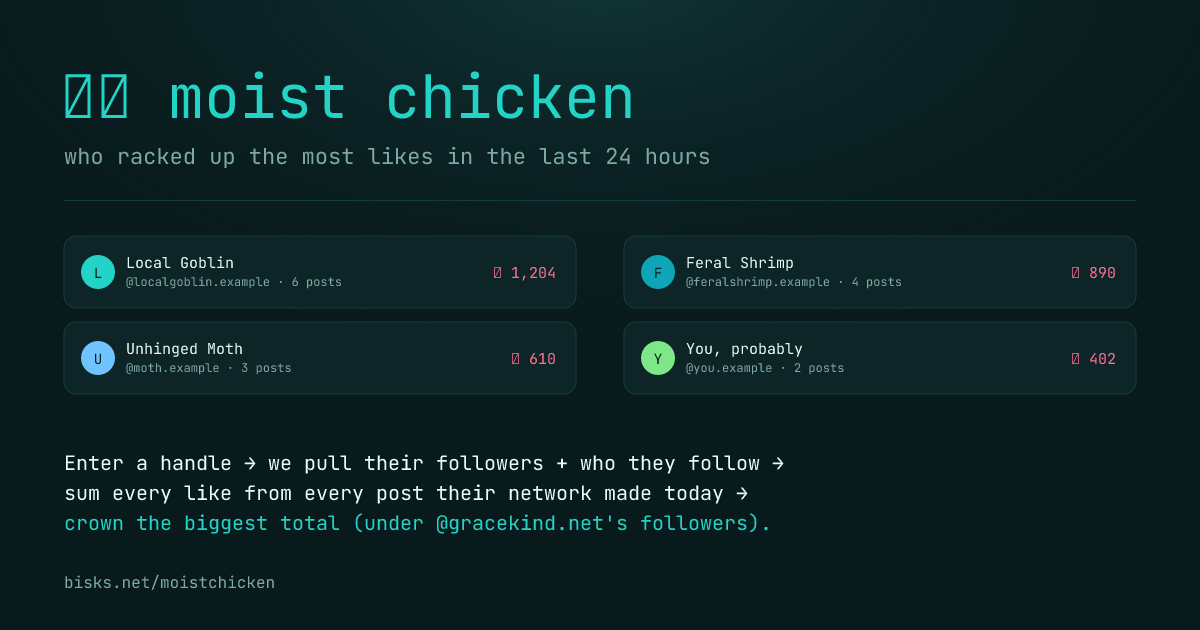
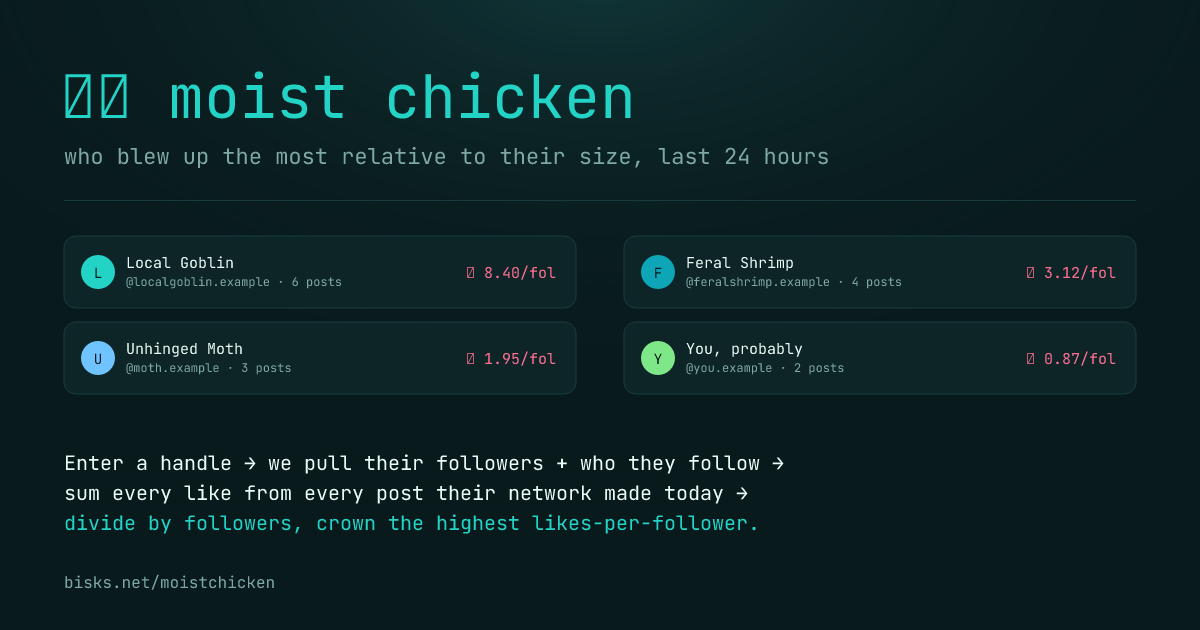
buildthis: moistchicken (@ver.ooo)

diff --git a/sites/moistchicken/public/index.html b/sites/moistchicken/public/index.html
@@ -7,16 +7,16 @@
          /moistchicken/lib/scan.js, 404ing outside this Worker's route. -->
     <base href="/moistchicken/" />
     <meta name="viewport" content="width=device-width, initial-scale=1" />
-    <title>moist chicken — who racked up the most likes today</title>
-    <meta name="description" content="Enter a Bluesky handle: moist chicken pulls their followers + who they follow, sums every like on every post that network made in the last 24 hours, and crowns whoever's total is highest 'moist chicken' — unless they have more followers than @gracekind.net." />
-    <meta property="og:title" content="moist chicken — who racked up the most likes today" />
-    <meta property="og:description" content="Enter a handle. moist chicken totals up likes across a whole network's last 24 hours and crowns the biggest total — capped below @gracekind.net's follower count." />
+    <title>moist chicken — who blew up relative to their size today</title>
+    <meta name="description" content="Enter a Bluesky handle: moist chicken pulls their followers + who they follow, sums every like on every post that network made in the last 24 hours, divides by each account's follower count, and crowns whoever's likes-per-follower is highest 'moist chicken' — so a small account that blows up beats a big one coasting on reach." />
+    <meta property="og:title" content="moist chicken — who blew up relative to their size today" />
+    <meta property="og:description" content="Enter a handle. moist chicken totals up likes across a whole network's last 24 hours, normalizes by follower count, and crowns the highest likes-per-follower — rewarding low-follower accounts that blow up." />
     <meta property="og:image" content="https://bisks.net/moistchicken/og.png" />
     <meta property="og:url" content="https://bisks.net/moistchicken" />
     <meta property="og:type" content="website" />
     <meta name="twitter:card" content="summary_large_image" />
-    <meta name="twitter:title" content="moist chicken — who racked up the most likes today" />
-    <meta name="twitter:description" content="Enter a handle. moist chicken totals up likes across a whole network's last 24 hours and crowns the biggest total — capped below @gracekind.net's follower count." />
+    <meta name="twitter:title" content="moist chicken — who blew up relative to their size today" />
+    <meta name="twitter:description" content="Enter a handle. moist chicken totals up likes across a whole network's last 24 hours, normalizes by follower count, and crowns the highest likes-per-follower — rewarding low-follower accounts that blow up." />
     <meta name="twitter:image" content="https://bisks.net/moistchicken/og.png" />
     <style>
       :root {
@@ -40,8 +40,6 @@
         display:flex; align-items:baseline; gap:0.5rem; }
       .sub { color:var(--muted); font-size:0.92rem; margin:0 0 1.6rem; max-width:56ch; }
       .sub b { color:var(--ink); }
-      .cap { color:var(--muted); font-size:0.82rem; margin:0 0 1.6rem; max-width:56ch; }
-      .cap a { color:var(--accent2); }
 
       form { display:flex; gap:0.55rem; margin-bottom:0.85rem; }
       input { flex:1; font:inherit; padding:0.65rem 0.75rem; border:1px solid var(--faint);
@@ -117,17 +115,6 @@
       .prow .nm { flex:1; min-width:0; overflow:hidden; text-overflow:ellipsis; white-space:nowrap; }
       .prow .lk { color:var(--like); font-weight:700; font-variant-numeric:tabular-nums; }
 
-      .dq { margin:1.6rem 0 0; }
-      .dq h3 { font-size:0.78rem; text-transform:uppercase; letter-spacing:0.05em;
-        color:var(--muted); margin:0 0 0.7rem; font-weight:700; }
-      .dqrow { display:flex; align-items:center; gap:0.6rem; padding:0.5rem 0;
-        border-bottom:1px solid var(--faint); font-size:0.86rem; opacity:0.65; }
-      .dqrow:last-child { border-bottom:none; }
-      .dqrow img { width:26px; height:26px; border-radius:50%; background:var(--faint); flex:none; object-fit:cover;
-        filter:grayscale(1); }
-      .dqrow .nm { flex:1; min-width:0; overflow:hidden; text-overflow:ellipsis; white-space:nowrap; text-decoration:line-through; }
-      .dqrow .why { color:var(--muted); font-family:var(--mono); font-size:0.76rem; flex:none; }
-
       .share { display:none; margin:1.4rem 0 1rem; flex-wrap:wrap; gap:0.55rem; }
       .share.show { display:flex; }
       .share button, .share a.btn { font-family:var(--mono); font-size:0.8rem; color:var(--muted);
@@ -149,12 +136,10 @@
       <p class="sub">
         Enter a handle. We pull everyone they <b>follow</b> and everyone who
         <b>follows them</b>, add up every like on every post that whole
-        network made in the <b>last 24 hours</b>, and crown whoever's
-        <b>total</b> is highest the moist chicken.
+        network made in the <b>last 24 hours</b>, then divide by each
+        account's <b>follower count</b> — whoever's <b>likes per follower</b>
+        is highest is the moist chicken. Blowing up small beats coasting big.
       </p>
-      <p class="cap">The catch: the moist chicken may not have more followers
-        than <a href="https://bsky.app/profile/gracekind.net" target="_blank" rel="noopener">@gracekind.net</a>.
-        Whoever's over that line gets bumped and the next-highest total takes it.</p>
 
       <form id="form">
         <input id="handle" placeholder="handle, e.g. mrcheeze.github.io" autocomplete="off"
@@ -193,11 +178,6 @@
           <div id="peckingList"></div>
         </div>
 
-        <div class="dq" id="dq" style="display:none">
-          <h3>too big for the coop</h3>
-          <div id="dqList"></div>
-        </div>
-
         <div class="share" id="share">
           <a class="btn compose" id="shareBluesky" target="_blank" rel="noopener">🦋 share to Bluesky</a>
           <button id="shareDownload">⬇ download card</button>
@@ -216,9 +196,8 @@
         keep a single page load from fanning out forever; each member is scanned up
         to ~500 recent items looking for anything posted in the last 24 hours.
         Reposts don't count, only what an account actually wrote. Follower counts
-        for the cap check are fetched live, starting from the top of the leaderboard,
-        stopping once enough qualifying accounts are found. Nothing is posted or
-        changed — it just reads.
+        used for the per-follower score are fetched live for everyone who posted
+        in-window. Nothing is posted or changed — it just reads.
       </p>
       <p class="credit">forked from <a href="https://bisks.net/topchicken">top chicken</a>, asked for by <a href="https://bsky.app/profile/ver.ooo">@ver.ooo</a> · built by <a href="https://bsky.app/profile/buildthis.bisks.net">@buildthis.bisks.net</a></p>
     </div>
@@ -226,7 +205,7 @@
     <script src="lib/handle-typeahead.js"></script>
     <script type="module">
       import { resolveNetwork } from "./lib/network.js";
-      import { scanNetwork, findMoistChicken, moistCap, last24h } from "./lib/scan.js";
+      import { scanNetwork, rankByLikesPerFollower, last24h } from "./lib/scan.js";
 
       if (window.attachHandleTypeahead) window.attachHandleTypeahead(document.getElementById('handle'));
 
@@ -243,8 +222,6 @@
       const winnerRow = document.getElementById("winnerRow");
       const pecking = document.getElementById("pecking");
       const peckingList = document.getElementById("peckingList");
-      const dq = document.getElementById("dq");
-      const dqList = document.getElementById("dqList");
       const share = document.getElementById("share");
       const shareCanvas = document.getElementById("shareCanvas");
 
@@ -276,6 +253,10 @@
         return "last 24 hours";
       }
 
+      function fmtRatio(n) {
+        return (n || 0).toLocaleString(undefined, { maximumFractionDigits: 2, minimumFractionDigits: 2 });
+      }
+
       function winnerHTML(entry) {
         const a = entry.author || {};
         const top = entry.posts[0];
@@ -289,8 +270,8 @@
                 <span class="dn">${esc(a.displayName || a.handle || "")}</span>
                 <span class="hd">@${esc(a.handle || "")}</span>
               </div>
-              <div class="total">♥ ${entry.totalLikes.toLocaleString()} total likes</div>
-              <div class="breakdown">across ${entry.postCount.toLocaleString()} post${entry.postCount === 1 ? "" : "s"}</div>
+              <div class="total">♥ ${fmtRatio(entry.likesPerFollower)} likes per follower</div>
+              <div class="breakdown">${entry.totalLikes.toLocaleString()} total likes across ${entry.postCount.toLocaleString()} post${entry.postCount === 1 ? "" : "s"}</div>
               ${top ? `
               <div class="toppost">
                 <div class="text">${esc(rec.text || "") || "<em style='color:var(--muted)'>(no text)</em>"}</div>
@@ -300,7 +281,7 @@
                   <a class="permalink" href="${bskyLink(top)}" target="_blank" rel="noopener">open ↗</a>
                 </div>
               </div>` : ""}
-              <div class="followers">${(entry.followersCount || 0).toLocaleString()} followers — under the @gracekind.net cap</div>
+              <div class="followers">${(entry.followersCount || 0).toLocaleString()} followers</div>
             </div>
           </div>`;
       }
@@ -312,17 +293,7 @@
             <span class="rk">#${i + 2}</span>
             <img src="${esc(a.avatar || "")}" alt="" referrerpolicy="no-referrer" />
             <span class="nm">${esc(a.displayName || a.handle || "")} <span style="color:var(--muted)">@${esc(a.handle || "")}</span></span>
-            <span class="lk">♥ ${entry.totalLikes.toLocaleString()}</span>
-          </div>`;
-      }
-
-      function dqRowHTML(entry) {
-        const a = entry.author || {};
-        return `
-          <div class="dqrow">
-            <img src="${esc(a.avatar || "")}" alt="" referrerpolicy="no-referrer" />
-            <span class="nm">${esc(a.displayName || a.handle || "")} @${esc(a.handle || "")} — ♥ ${entry.totalLikes.toLocaleString()}</span>
-            <span class="why">${(entry.followersCount || 0).toLocaleString()} followers</span>
+            <span class="lk">♥ ${fmtRatio(entry.likesPerFollower)}/fol</span>
           </div>`;
       }
 
@@ -425,10 +396,10 @@
 
         ctx.fillStyle = "#ff6f91";
         ctx.font = `800 36px ${mono}`;
-        ctx.fillText(`♥ ${entry.totalLikes.toLocaleString()} total likes`, cardX + 40, cardY + 150);
+        ctx.fillText(`♥ ${fmtRatio(entry.likesPerFollower)} likes/follower`, cardX + 40, cardY + 150);
         ctx.fillStyle = "#7ea8a3";
         ctx.font = `400 20px ${mono}`;
-        ctx.fillText(`across ${entry.postCount.toLocaleString()} post${entry.postCount === 1 ? "" : "s"}`, cardX + 40, cardY + 182);
+        ctx.fillText(`${entry.totalLikes.toLocaleString()} likes across ${entry.postCount.toLocaleString()} post${entry.postCount === 1 ? "" : "s"}`, cardX + 40, cardY + 182);
 
         ctx.fillStyle = "#eafcf6";
         ctx.font = `400 20px ${mono}`;
@@ -443,7 +414,7 @@
       function buildShareText(net, entry) {
         const a = entry.author || {};
         const url = "https://bisks.net/moistchicken?handle=" + encodeURIComponent(net.self.handle);
-        const head = `🐔💧 moist chicken in @${net.self.handle}'s network for the last 24h: @${a.handle} — ${entry.totalLikes.toLocaleString()} total likes across ${entry.postCount} post${entry.postCount === 1 ? "" : "s"}\n`;
+        const head = `🐔💧 moist chicken in @${net.self.handle}'s network for the last 24h: @${a.handle} — ${fmtRatio(entry.likesPerFollower)} likes/follower (${entry.totalLikes.toLocaleString()} likes across ${entry.postCount} post${entry.postCount === 1 ? "" : "s"})\n`;
         const tail = `\n${url}`;
         return head + tail;
       }
@@ -462,8 +433,6 @@
         share.classList.remove("show");
         pecking.style.display = "none";
         peckingList.innerHTML = "";
-        dq.style.display = "none";
-        dqList.innerHTML = "";
         winnerRow.innerHTML = "";
 
         try {
@@ -476,7 +445,6 @@
           if (!net.pool.length) throw new Error("no one in that network to scan");
 
           const { start, end } = last24h();
-          const capPromise = moistCap();
           progwrap.classList.add("show");
           statusEl.textContent = `scanning ${net.pool.length.toLocaleString()} accounts for the last 24 hours…`;
 
@@ -497,22 +465,12 @@
             return;
           }
 
-          const cap = await capPromise;
-          let checked = 0;
-          statusEl.textContent = `checking follower counts against @${cap.handle} (${cap.followersCount.toLocaleString()} followers)…`;
-          const { winner, runnersUp, disqualified } = await findMoistChicken(ranked, cap, {
-            onCheck: () => {
-              checked++;
-              statusEl.textContent = `checking follower counts against @${cap.handle}… (${checked} checked)`;
+          statusEl.textContent = `weighing likes against follower counts… (0 / ${ranked.length})`;
+          const { winner, runnersUp } = await rankByLikesPerFollower(ranked, {
+            onCheck: (_entry, done, total) => {
+              statusEl.textContent = `weighing likes against follower counts… (${done} / ${total})`;
             },
           });
-
-          if (!winner) {
-            statusEl.textContent = `everyone in the running has more followers than @${cap.handle} — no moist chicken today.`;
-            busy = false;
-            go.disabled = false;
-            return;
-          }
 
           statusEl.textContent = "";
           daylabel.textContent = `in @${net.self.handle}'s network — ${windowLabel()}`;
@@ -520,10 +478,6 @@
           if (runnersUp.length) {
             peckingList.innerHTML = runnersUp.map(peckingRowHTML).join("");
             pecking.style.display = "block";
-          }
-          if (disqualified.length) {
-            dqList.innerHTML = disqualified.map(dqRowHTML).join("");
-            dq.style.display = "block";
           }
           winnerWrap.classList.add("show");
           share.classList.add("show");

diff --git a/sites/moistchicken/public/lib/scan.js b/sites/moistchicken/public/lib/scan.js
@@ -1,18 +1,19 @@
 // scan.js — given a pool of profiles, find whoever racked up the most TOTAL
-// likes (summed across every post they made) in the rolling last 24 hours.
+// likes per follower (summed likes across every post they made in the
+// rolling last 24 hours, divided by their follower count) — so an account
+// that blows up relative to its own size wins, not just whoever has the
+// biggest audience to begin with.
 // Reads app.bsky.feed.getAuthorFeed anonymously (public.api.bsky.app,
 // CORS *). Concurrency helper + feed-walking copied from
 // sites/topchicken/public/lib/scan.js (copy, don't abstract) — the
 // difference here: sum likes per author instead of tracking a single best
-// post, and a "moist chicken can't out-follower @gracekind.net"
-// disqualification pass at the end.
+// post, then rank by likes-per-follower instead of raw total.
 
 const PUB = "https://public.api.bsky.app/xrpc";
 
 const FEED_PAGES = 5; // <= ~500 recent items scanned per member before giving up
 const CONCURRENCY = 10;
 const RUNNERS_UP = 6; // kept alongside the winner for "the pecking order"
-const CAP_HANDLE = "gracekind.net"; // moist chicken may not out-follower this account
 
 async function jget(url) {
   const r = await fetch(url);
@@ -79,19 +80,6 @@ async function postsInWindow(member, windowStart, windowEnd) {
   return hits;
 }
 
-// The follower-count ceiling: moist chicken may not have more followers
-// than @gracekind.net. Resolved fresh each run (her follower count moves).
-export async function moistCap() {
-  try {
-    const p = await jget(
-      `${PUB}/app.bsky.actor.getProfile?actor=${encodeURIComponent(CAP_HANDLE)}`,
-    );
-    return { handle: CAP_HANDLE, followersCount: p.followersCount || 0 };
-  } catch {
-    return { handle: CAP_HANDLE, followersCount: Infinity }; // lookup failed — don't disqualify anyone over it
-  }
-}
-
 // Crawl the whole pool for the given window, summing likes per author.
 // Returns { ranked, scannedMembers, postsSeen } where `ranked` is every
 // author who posted in-window, sorted by total likes descending:
@@ -130,17 +118,18 @@ export async function scanNetwork(pool, windowStart, windowEnd, { onProgress } =
   return { ranked, scannedMembers: scanned, postsSeen };
 }
 
-// Walk the ranked list, disqualifying anyone with more followers than the
-// cap (fetched live per candidate — followersCount isn't in the feed
-// response, only on the profile). Stops once enough qualifiers are found.
-// Returns { winner, runnersUp, disqualified } — `disqualified` is every
-// entry skipped along the way (for a "too popular to be moist" callout),
-// `runnersUp` is the next few qualifying entries after the winner.
-export async function findMoistChicken(ranked, cap, { onCheck } = {}) {
-  const disqualified = [];
-  const qualifying = [];
-  for (const entry of ranked) {
-    if (qualifying.length >= 1 + RUNNERS_UP) break; // enough qualifiers found, stop spending profile fetches
+// Fetch every in-window candidate's follower count (not in the feed
+// response, only on the profile) and score them by totalLikes / followers —
+// rewarding an account that blows up relative to its own size over one with
+// a bigger audience to begin with. A brand-new account with zero followers
+// is scored against 1 follower instead of dividing by zero. Runs the
+// profile fetches at the same concurrency as the feed crawl, since everyone
+// who posted in-window needs a lookup now (not just the top few, back when
+// this was a cap check).
+// Returns { winner, runnersUp } sorted by that per-follower score.
+export async function rankByLikesPerFollower(ranked, { onCheck } = {}) {
+  let checked = 0;
+  await pooledEach(ranked, CONCURRENCY, async (entry) => {
     let followersCount;
     try {
       const p = await jget(
@@ -148,17 +137,18 @@ export async function findMoistChicken(ranked, cap, { onCheck } = {}) {
       );
       followersCount = p.followersCount || 0;
     } catch {
-      followersCount = 0; // lookup failed — don't unfairly disqualify, assume under the cap
+      followersCount = 0; // lookup failed — treat as unknown, still eligible
     }
     entry.followersCount = followersCount;
-    if (onCheck) onCheck(entry);
-    if (followersCount > cap.followersCount) disqualified.push(entry);
-    else qualifying.push(entry);
-  }
+    entry.likesPerFollower = entry.totalLikes / Math.max(followersCount, 1);
+    checked++;
+    if (onCheck) onCheck(entry, checked, ranked.length);
+  });
+
+  const scored = [...ranked].sort((a, b) => b.likesPerFollower - a.likesPerFollower);
 
   return {
-    winner: qualifying[0] || null,
-    runnersUp: qualifying.slice(1),
-    disqualified,
+    winner: scored[0] || null,
+    runnersUp: scored.slice(1, 1 + RUNNERS_UP),
   };
 }

diff --git a/apex/public/index.html b/apex/public/index.html
@@ -1881,10 +1881,10 @@
           <p>
             top chicken's sibling: same follows-∪-followers network, but
             instead of a single best post it sums every like on every post
-            the network made in the last 24 hours and crowns the biggest
-            total — with one rule: the moist chicken may not have more
-            followers than @gracekind.net, or the next-highest total takes
-            it. @ver.ooo asked for this one.
+            the network made in the last 24 hours, divides by each
+            account's follower count, and crowns the highest likes-per-
+            follower — a small account blowing up beats a big one coasting
+            on reach. @ver.ooo asked for this one.
           </p>
         </a>
 
